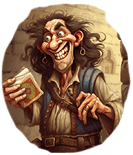
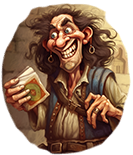
[SCRUM-79] UPDATE - Card images

diff --git a/src/Cards/CardFactory.js b/src/Cards/CardFactory.js
@@ -23,8 +23,8 @@ export default class CardFactory {
     createCards(language) {
         let card
 
-        // for (let i = 0; i < this.cardData.length; i++) {
-        for (let i = 0; i < 15; i++) {
+        for (let i = 0; i < this.cardData.length; i++) {
+
             const id = this.cardData[i].card_id;
             // const name = [this.cardData[i].name, this.cardData[i].izena];
             // const description = [this.cardData[i].description, this.cardData[i].deskripzioa];
